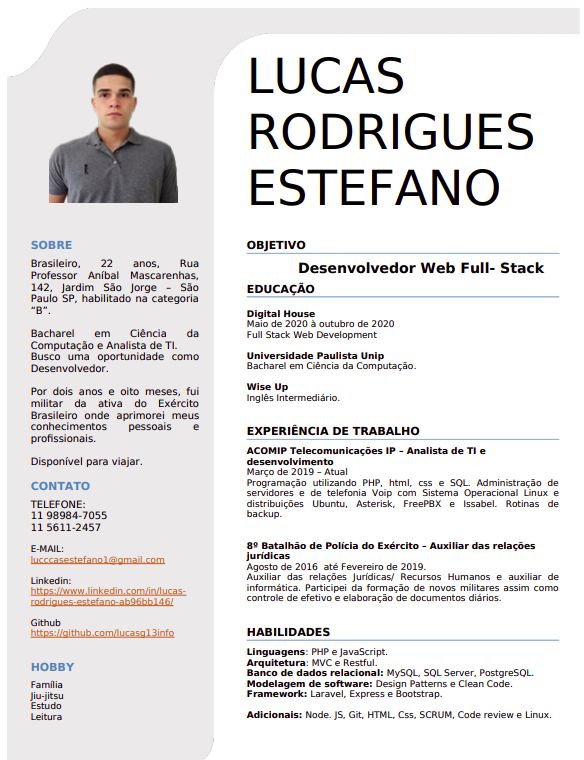
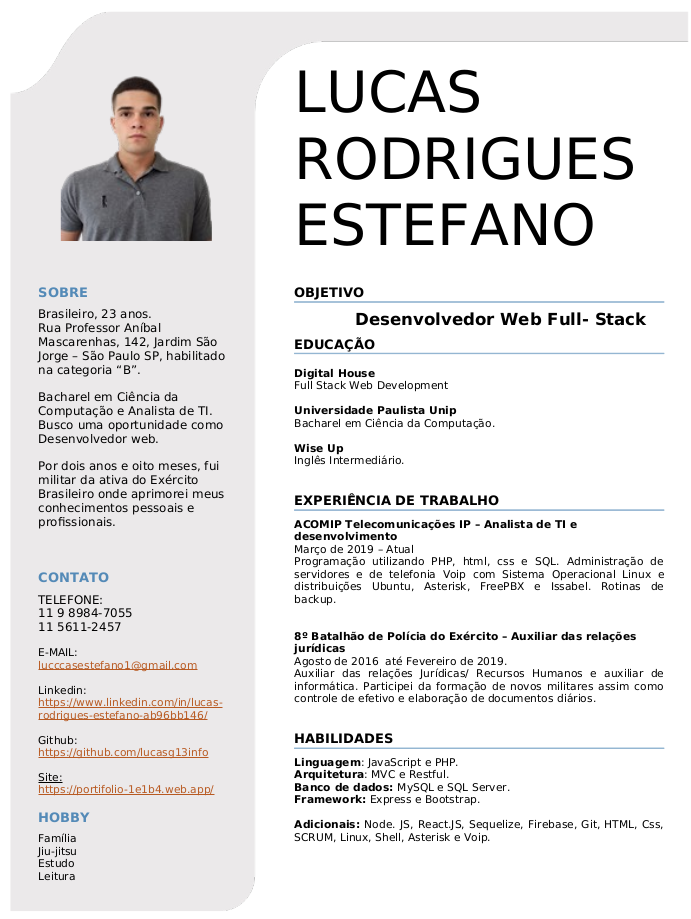
Ajustes no cv

diff --git a/public/public/style/cv.css b/public/public/style/cv.css
@@ -62,8 +62,7 @@ margin-right: 10px;
 }
   
 .curriculo{
-    width: 960px;
-    height: 1224px;
+    width: 500px;
 }
   
 /*Footer*/
